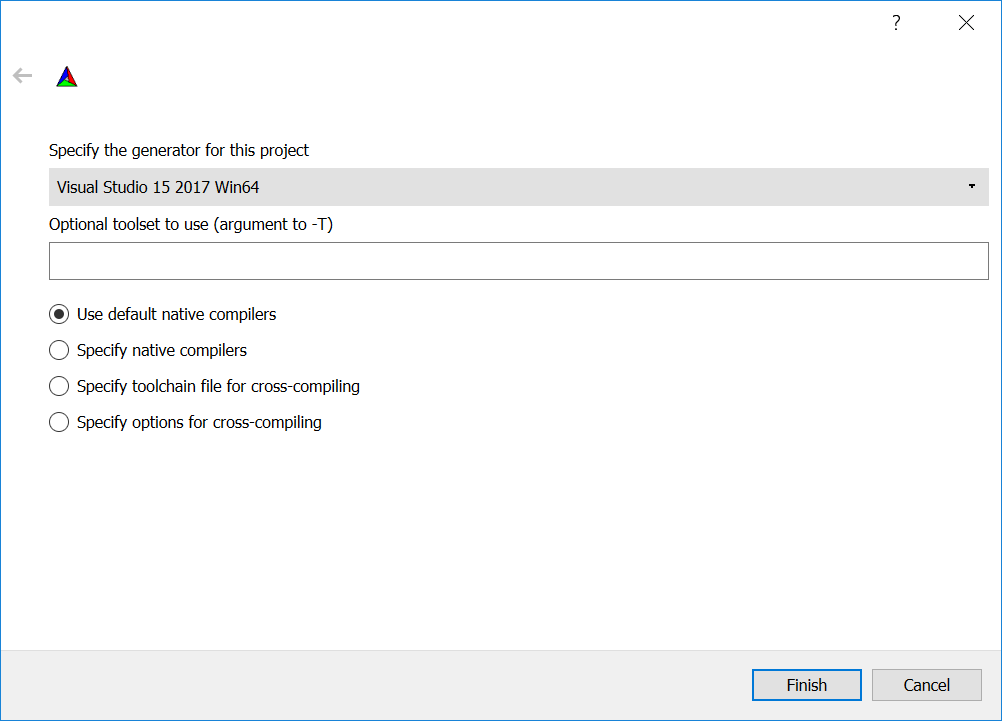
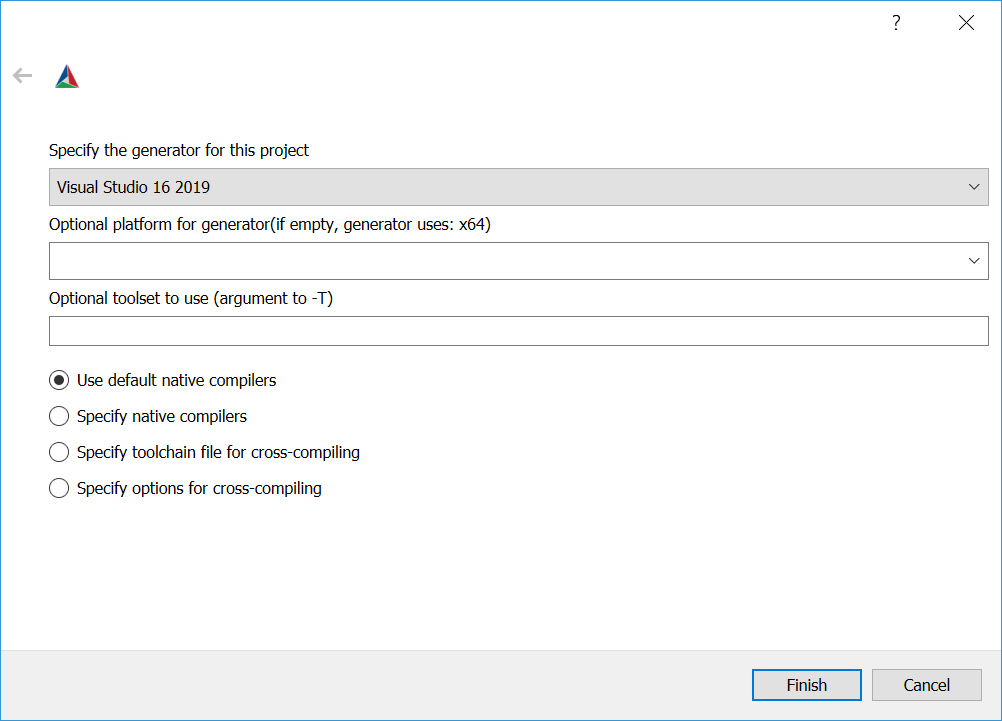
Pull request #139: ONE-59143 updated README for xcode and new cmake gui
Merge in OP/openkit-native from feature/ONE-59143-macos-build-run-a-command-line-app-reporting-data-via-openkit-native-c-c to main

* commit 'a83cf09ab8379b29f4a0e822114bbbba247393de':
  ONE-59143 public/docs/building-openkit.md edited online with Bitbucket
  ONE-59143 updated README for xcode and new cmake gui

GitOrigin-RevId: ad3d48ab9328033d668b49da075038466d9fd333

diff --git a/docs/building-openkit.md b/docs/building-openkit.md
@@ -36,7 +36,7 @@ libcurl requires an SSL library.
 OpenKit has the following restrictions on supported SSL libraries:
 * OpenSSL when OpenKit is built on GNU/Linux systems
 * Microsoft's Secure Channel when OpenKit is built on Microsoft Windows
-* DarwinSSL when OpenKit is built on OS X
+* DarwinSSL when OpenKit is built on macOS
 
 During development the developer using OpenKit has to ensure that the appropriate
 development library is available. The runtime library needs to be installed on
@@ -69,7 +69,7 @@ direct dependencies are built as static library and linked into OpenKit DLL/SO.
 
 ## Building OpenKit
 
-### Building using CMake GUI
+### Build using CMake GUI
 
 One of the most convenient ways is to build OpenKit by invoking the CMake GUI.
 A GUI exists on Windows, as well as GNU/Linux.
@@ -83,7 +83,7 @@ Screenshot of the steps above
 
 4. Press the Configure button
 5. If the CMake cache is empty (first time configuration) a generator needs to be selected.
-For this example Visual Studio 2017 Win64 (64 bit toolset) is chosen, but others can be used as well.
+For this example Visual Studio 2019 is chosen, but others can be used as well.
 ![diagram](./pics/CMakeGUI-02.png)
 
 5. Change the CMake options, if necessary (see "Options controlling the build")  
@@ -98,9 +98,9 @@ If a Visual Studio solution has been generated it can be opened by using the
 Open Project button or by simply navigating to the build folder which now contains the
 Solution file.
 
-The solution can now be build in Visual Studio.
+The solution can now be built in Visual Studio.
 
-### Building using CMake from the command line
+### Build using CMake from the command line
 
 CMake can also be invoked from the command line, using the `cmake` program.
 
@@ -124,7 +124,7 @@ After the build files (GNU Makefiles) have been generated, GNU make can be invok
 to build the OpenKit library.
 
 ```shell
-make clean all install
+make clean all install -j${NUMBER_OF_THREADS}
 ```
 
 If the `install` target is also invoked, the libraries, binaries and headers are copied to the
@@ -148,7 +148,30 @@ cmake -G "NMake Makefiles" -DCMAKE_BUILD_TYPE=Release -DCMAKE_INSTALL_PREFIX=C:\
 nmake
 ```
 
-### Building from IDE
+### Build using Xcode
+On macOS OpenKit can also be built using Xcode. To do so the project has to be be generated by cmake.
+
+```shell
+cmake -GXcode -DCMAKE_BUILD_TYPE=Release -DCMAKE_INSTALL_PREFIX=/path/where/OpenKit/files/are/installed ../..
+```
+
+It can either be compiled using command line..
+
+```shell
+xcodebuild -scheme install -configuration Release -project OpenKit.xcodeproj
+```
+
+or using the Xcode UI by opening `OpenKit.xcodeproj`.
+The first time Xcode opens the generated project it asks if it should automatically create the required schemes, which should be confirmed.
+![diagram](./pics/Xcode1.png)
+
+After that, the "install" schema should be selected and build (CMD + B).
+
+![diagram](./pics/Xcode2.png)
+
+The OpenKit binaries are written to the specified install location.
+
+### Build using a CMake supporting IDE
 
 Many IDEs - like Microsoft's Visual Studio 2017/2019 or Jetbrains' CLion - natively support
 CMake without the need to manually Configue and Generate intermediate files.
